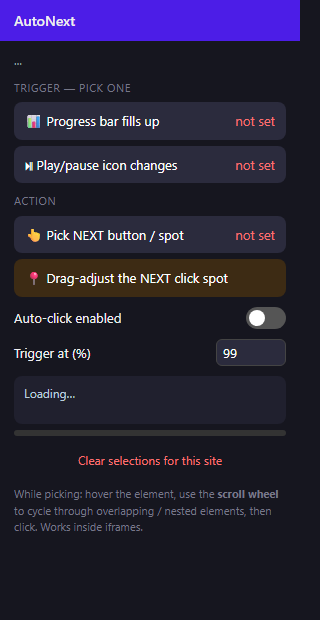
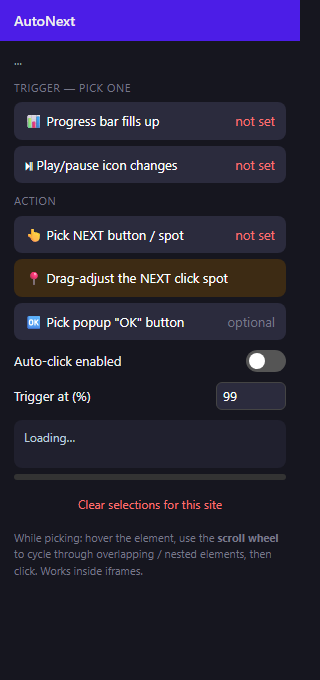
Add mappable OK button to auto-dismiss blocking popups
Some players show a blocking popup (you have to view the entire slide to
continue) that sits in front of NEXT. The popup dismiss button can now be
mapped (pick it while the popup is open); every poll checks the button is
visible AND actually on top before clicking, so a hidden button never gets
phantom-clicked. Test page now shows the same popup when NEXT is clicked
early.

Changed region(s): [[0.0, 0.0, 0.9375, 0.7048], [0.0312, 0.7355, 0.875, 0.8581]]

diff --git a/content.js b/content.js
@@ -26,12 +26,17 @@
   // slide starts playing) never re-triggers.
   const STATE_STABLE_MS = 5000;
 
+  // Separate, shorter cooldown for dismissing "OK" popups.
+  const OK_COOLDOWN_MS = 2500;
+
   const DEFAULTS = {
     mode: "bar", // "bar" | "state"
     barSelector: null,
     stateSelector: null,
     nextSelector: null,
     nextPoint: null, // { fx, fy } as fractions of the viewport
+    okSelector: null, // optional popup-dismiss button ("view entire slide" etc.)
+    okPoint: null,
     enabled: true,
     threshold: 99,
   };
@@ -46,6 +51,7 @@
   let adjusting = false;
   let dragging = false;
   let lastClickAt = 0;
+  let okLastClickAt = 0;
   let lastProgress = null;
   let statusNote = "";
   let noteUntil = 0;
@@ -264,14 +270,38 @@
     }
   }
 
+  // The mapped OK button (blocking popup) — click it whenever it is actually
+  // visible on screen. The elementFromPoint check makes sure it is really the
+  // thing on top, so a hidden/covered button never gets phantom-clicked.
+  function checkOkPopup() {
+    const el = document.querySelector(cfg.okSelector);
+    if (!el) return;
+    const r = el.getBoundingClientRect();
+    if (r.width < 2 || r.height < 2) return;
+    const cx = r.left + r.width / 2;
+    const cy = r.top + r.height / 2;
+    if (cx < 0 || cy < 0 || cx > innerWidth || cy > innerHeight) return;
+    const top = document.elementFromPoint(cx, cy);
+    if (!top || !(el.contains(top) || top.contains(el))) return;
+    const now = Date.now();
+    if (now - okLastClickAt < OK_COOLDOWN_MS) return;
+    okLastClickAt = now;
+    fullClick(el, cx, cy);
+    setNote("clicked OK ✓", 2500);
+  }
+
   /* ---------------- main poll loop ---------------- */
 
   function tick() {
     if (!cfg) return;
+    if (!cfg.enabled) {
+      updateBadge();
+      return;
+    }
+    if (cfg.okSelector) checkOkPopup();
     const hasNext = !!(cfg.nextSelector || cfg.nextPoint);
     const hasTrigger = cfg.mode === "state" ? !!cfg.stateSelector : !!cfg.barSelector;
-    if (!hasNext || !hasTrigger) return;
-    if (!cfg.enabled) {
+    if (!hasNext || !hasTrigger) {
       updateBadge();
       return;
     }
@@ -389,7 +419,8 @@
     const hasNext = !!(cfg && (cfg.nextSelector || cfg.nextPoint));
     const hasTrigger =
       !!cfg && (cfg.mode === "state" ? !!cfg.stateSelector : !!cfg.barSelector);
-    if (!hasNext || !hasTrigger) {
+    const hasOk = !!(cfg && cfg.okSelector);
+    if ((!hasNext || !hasTrigger) && !hasOk) {
       badge.style.display = "none";
       return;
     }
@@ -398,6 +429,10 @@
     if (!cfg.enabled) {
       badge.textContent = "AutoNext ⏸ paused" + note;
       badge.style.background = "rgba(90,90,90,.85)";
+    } else if (!hasNext || !hasTrigger) {
+      badge.textContent = "AutoNext 🆗 popup watcher" + note;
+      badge.style.background =
+        note.includes("✓") ? "rgba(30,130,60,.9)" : "rgba(76,29,231,.88)";
     } else if (cfg.mode === "state") {
       const armed = stateSig !== null && Date.now() - stateSigSince >= STATE_STABLE_MS;
       badge.textContent =
@@ -560,6 +595,12 @@
       stateSigSince = 0;
       statePend = null;
       statePendN = 0;
+    } else if (picking === "ok") {
+      cfg.okSelector = sel;
+      cfg.okPoint = { fx: e.clientX / innerWidth, fy: e.clientY / innerHeight };
+      // Don't insta-click the popup that is open right now — give the user a
+      // moment after picking.
+      okLastClickAt = Date.now();
     } else {
       cfg.nextSelector = sel;
       cfg.nextPoint = { fx: e.clientX / innerWidth, fy: e.clientY / innerHeight };
@@ -598,6 +639,7 @@
     bar: "Hover the PROGRESS BAR — scroll wheel cycles overlapping/nested elements",
     state: "Hover the PLAY/PAUSE button — scroll wheel cycles overlapping/nested elements",
     next: "Hover the NEXT button (or any spot to click) — scroll cycles elements",
+    ok: "Hover the popup's OK button — it will be auto-clicked whenever the popup shows up",
   };
 
   function startPicking(target) {
@@ -752,6 +794,7 @@
       barFound: hasBar ? !!document.querySelector(cfg.barSelector) : false,
       stateFound: hasState ? !!document.querySelector(cfg.stateSelector) : false,
       nextFound: hasPoint || (hasNextSel && !!document.querySelector(cfg.nextSelector)),
+      hasOk: !!(cfg && cfg.okSelector),
       stateArmed: stateSig !== null && Date.now() - stateSigSince >= STATE_STABLE_MS,
       enabled: !!(cfg && cfg.enabled),
       threshold: cfg ? cfg.threshold ?? 99 : 99,

diff --git a/test-page.html b/test-page.html
@@ -107,6 +107,17 @@
     <div id="done">✅ Module complete — NEXT was clicked on every slide.</div>
   </div>
 
+  <!-- blocking popup, like real players show when NEXT is clicked too early -->
+  <div id="popupOverlay" style="display:none;position:fixed;inset:0;background:rgba(0,0,0,.55);z-index:50;">
+    <div style="position:absolute;left:50%;top:40%;transform:translate(-50%,-50%);background:#4b5563;color:#4ade80;padding:28px 40px;border-radius:8px;text-align:center;font-size:15px;">
+      <div style="font-size:26px;margin-bottom:10px;">ⓘ</div>
+      You have to view the entire slide to continue
+      <div style="margin-top:16px;">
+        <button id="okBtn" style="background:#4c1de7;color:#fff;border:0;border-radius:999px;padding:8px 26px;font-weight:700;cursor:pointer;">OK</button>
+      </div>
+    </div>
+  </div>
+
 <script>
   const SLIDES = [
     { title: "Seatbelt Penalties", text: "Drivers are also responsible for ensuring any child who is not big enough or old enough to use a seatbelt is secured in an appropriate child car seat or booster seat." },
@@ -149,7 +160,15 @@
     renderPauseBtn();
   }, 100);
 
+  document.getElementById("okBtn").addEventListener("click", () => {
+    document.getElementById("popupOverlay").style.display = "none";
+  });
+
   document.getElementById("nextBtn").addEventListener("click", () => {
+    if (progress < 100) {
+      document.getElementById("popupOverlay").style.display = "block";
+      return;
+    }
     if (slide < SLIDES.length - 1) {
       slide++;
       progress = 0;

diff --git a/popup.js b/popup.js
@@ -39,6 +39,14 @@ async function refresh() {
   setMark("barMark", s.hasBar, s.barFound);
   setMark("stateMark", s.hasState, s.stateFound);
   setMark("nextMark", s.hasNext, s.nextFound);
+  const okMark = document.getElementById("okMark");
+  if (s.hasOk) {
+    okMark.className = "check";
+    okMark.textContent = "✓";
+  } else {
+    okMark.className = "opt";
+    okMark.textContent = "optional";
+  }
 
   // Highlight which trigger mode is active.
   document.getElementById("pickBar").classList.toggle("active", s.hasCfg && s.mode === "bar");
@@ -85,6 +93,7 @@ async function init() {
   document.getElementById("pickBar").addEventListener("click", pick("bar"));
   document.getElementById("pickState").addEventListener("click", pick("state"));
   document.getElementById("pickNext").addEventListener("click", pick("next"));
+  document.getElementById("pickOk").addEventListener("click", pick("ok"));
   document.getElementById("adjustNext").addEventListener("click", async () => {
     await send({ type: "adjustNext" });
     window.close();

diff --git a/popup.html b/popup.html
@@ -47,6 +47,7 @@
   button.active { border-color: #4c1de7; background: #26204a; }
   button .check { float: right; color: #22c55e; font-weight: 700; }
   button .miss { float: right; color: #f87171; }
+  button .opt { float: right; color: #778; }
   .row {
     display: flex;
     align-items: center;
@@ -112,6 +113,7 @@
     <div class="section">Action</div>
     <button id="pickNext">👆 Pick NEXT button / spot <span class="miss" id="nextMark">not set</span></button>
     <button id="adjustNext">📍 Drag-adjust the NEXT click spot</button>
+    <button id="pickOk">🆗 Pick popup "OK" button <span class="opt" id="okMark">optional</span></button>
 
     <div class="row">
       <span>Auto-click enabled</span>

diff --git a/README.md b/README.md
@@ -28,6 +28,9 @@ This was the best idea: when a video finishes, the **pause icon (⏸) flips back
 
 It doesn't matter what state the button is in when you pick it — the extension learns what the button looks like, waits until that look has held steady for ~5 seconds, and only fires when it *changes* after being stable. That way the flip right after clicking NEXT (new video starting) never re-triggers it.
 
+### 4. Auto-dismiss blocking popups
+Some players throw up a *"You have to view the entire slide to continue"* popup with an OK button that blocks everything. You can now map that OK button too (**🆗 Pick popup "OK" button** — do it while the popup is open). The extension checks every half second whether that button is actually visible **and on top** — if the popup shows up, OK gets clicked automatically. When the popup is closed, the hidden button is never touched, so there are no phantom clicks.
+
 ![Extension popup](screenshots/popup.png)
 
 ## Install
@@ -45,7 +48,8 @@ It doesn't matter what state the button is in when you pick it — the extension
    - **⏯ Play/pause icon changes** — click it, then pick the play/pause button on the player. Fires when the icon changes after the video has been playing. This is the more reliable option for video players.
 3. Pick the action: **👆 Pick NEXT button / spot** — click exactly where NEXT should be clicked
 4. If the click spot ever needs moving: **📍 Drag-adjust the NEXT click spot** and drag the orange marker wherever you want
-5. Done. A little badge bottom-right shows what it's doing (`AutoNext ▶ 43%` or `AutoNext 👁 watching play/pause`). It goes green when it clicks.
+5. Optional: if the site shows a blocking *"view the entire slide"* popup, wait for it to appear once, then **🆗 Pick popup "OK" button** while it's open — from then on it gets dismissed automatically
+6. Done. A little badge bottom-right shows what it's doing (`AutoNext ▶ 43%` or `AutoNext 👁 watching play/pause`). It goes green when it clicks.
 
 Everything is saved **per site**, so you set it up once and it survives reloads and new slides. Works inside iframes too (course players basically always live in an iframe).
 
@@ -57,7 +61,7 @@ Everything is saved **per site**, so you set it up once and it survives reloads 
 
 ## Testing it
 
-Open `test-page.html` (or serve the folder and open it) — it's a mock course player where each slide "plays" for 12 seconds, complete with a pause button that flips to ▶ when the slide ends. Set up either trigger mode on it and watch it advance all 3 slides by itself.
+Open `test-page.html` (or serve the folder and open it) — it's a mock course player where each slide "plays" for 12 seconds, complete with a pause button that flips to ▶ when the slide ends. Set up either trigger mode on it and watch it advance all 3 slides by itself. It even shows the blocking *"view the entire slide"* popup if NEXT is clicked too early, so you can test the OK-button mapping too.
 
 ## Privacy
 
